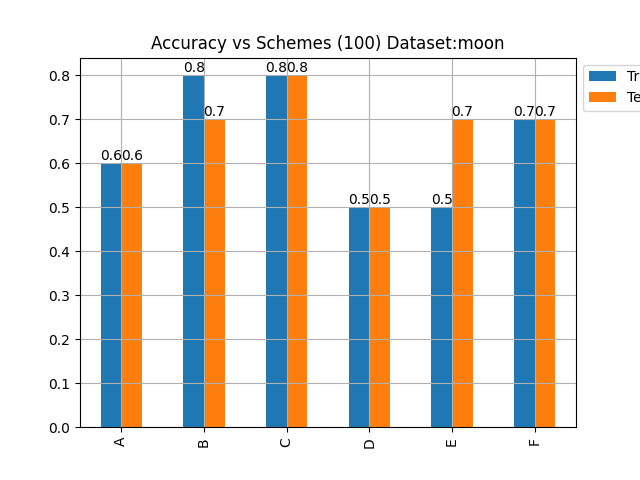
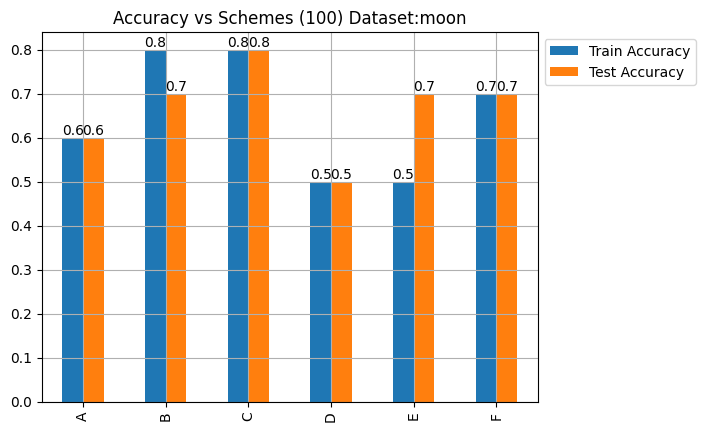
fixed figures

diff --git a/benchmark_qubit.py b/benchmark_qubit.py
@@ -137,7 +137,7 @@ def plot_datafram(df,dataset):
         title = "Loss vs Iters ("+str(itr)+") Dataset:"+dataset
         plt.title(title)
         plt.show()
-        plt.savefig("./Figs/qubit/"+title+".png")
+        plt.savefig("./Figs/qubit/"+title+".png",bbox_inches = 'tight')
         plt.close()
 
 
@@ -151,7 +151,7 @@ def plot_datafram(df,dataset):
         title = "Accuracy vs Schemes ("+str(itr)+") Dataset:"+dataset
         plt.title(title)
         plt.show()
-        plt.savefig("./Figs/qubit/"+title+".png")
+        plt.savefig("./Figs/qubit/"+title+".png",bbox_inches = 'tight')
         plt.close()
 
 plot_datafram(moon_df,'moon')
